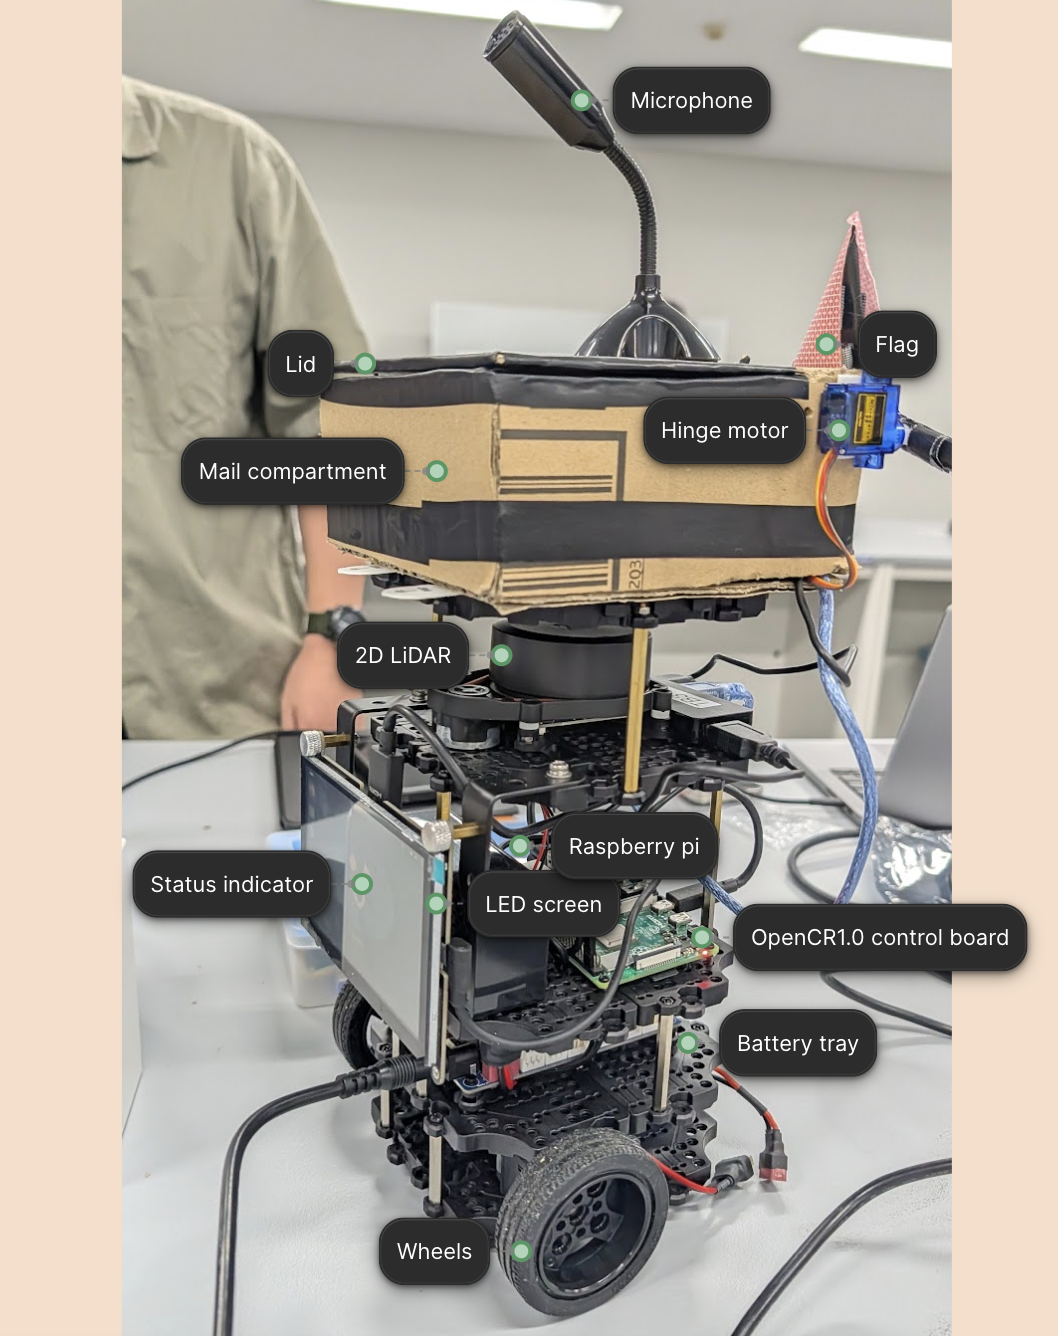
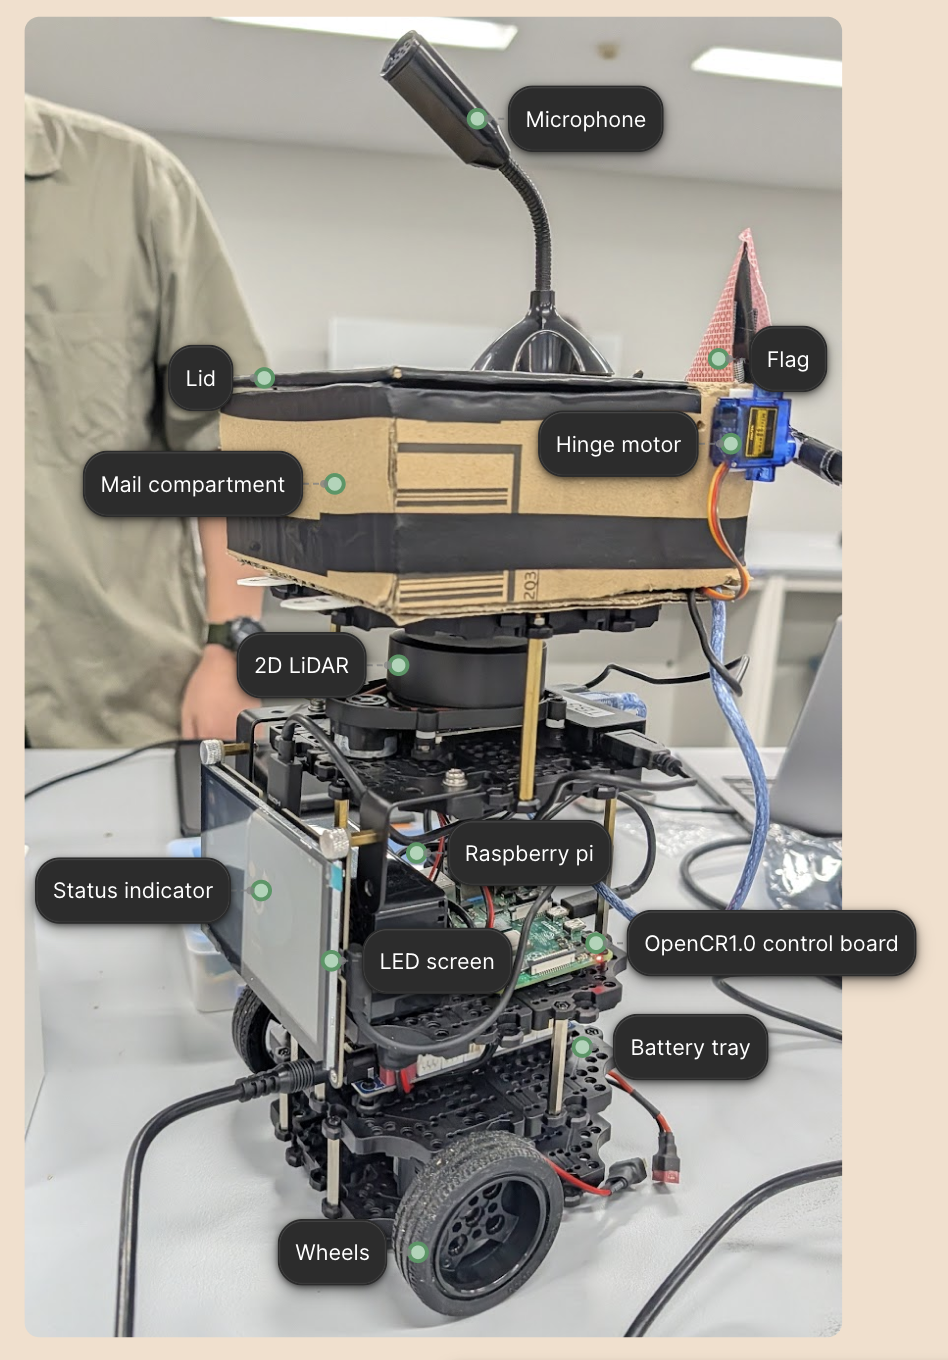
<Updated robot anatomy images>

diff --git a/site/how-it-works.html b/site/how-it-works.html
@@ -124,7 +124,7 @@ footer .fine-print{font-size:0.82rem;color:rgba(255,249,245,0.65);}
 
       <div class="anatomy-display">
         <div class="anatomy-img-holder">
-          <img id="anatomy-main-img" src="Robot_anatomy_2.png" alt="Robot Anatomy Diagram View">
+          <img id="anatomy-main-img" src="Robot_anatomy_2.png?v=2" alt="Robot Anatomy Diagram View">
         </div>
         <div class="anatomy-specs-list">
           <div class="anatomy-spec-card">

diff --git a/site/technical.html b/site/technical.html
@@ -98,7 +98,7 @@
     
     <div class="spec-layout">
       <div class="spec-img">
-        <img src="Robot_on_track.webp" alt="Image of TurtleBot3 robot in the mock corridor environment.">
+        <img src="Robot_on_track.webp" alt="Image of TurtleBot3 robot in the mock corridor environment." style="border-radius:16px;display:block;width:100%;height:auto;">
       </div>
 
       <div class="spec-grid">
